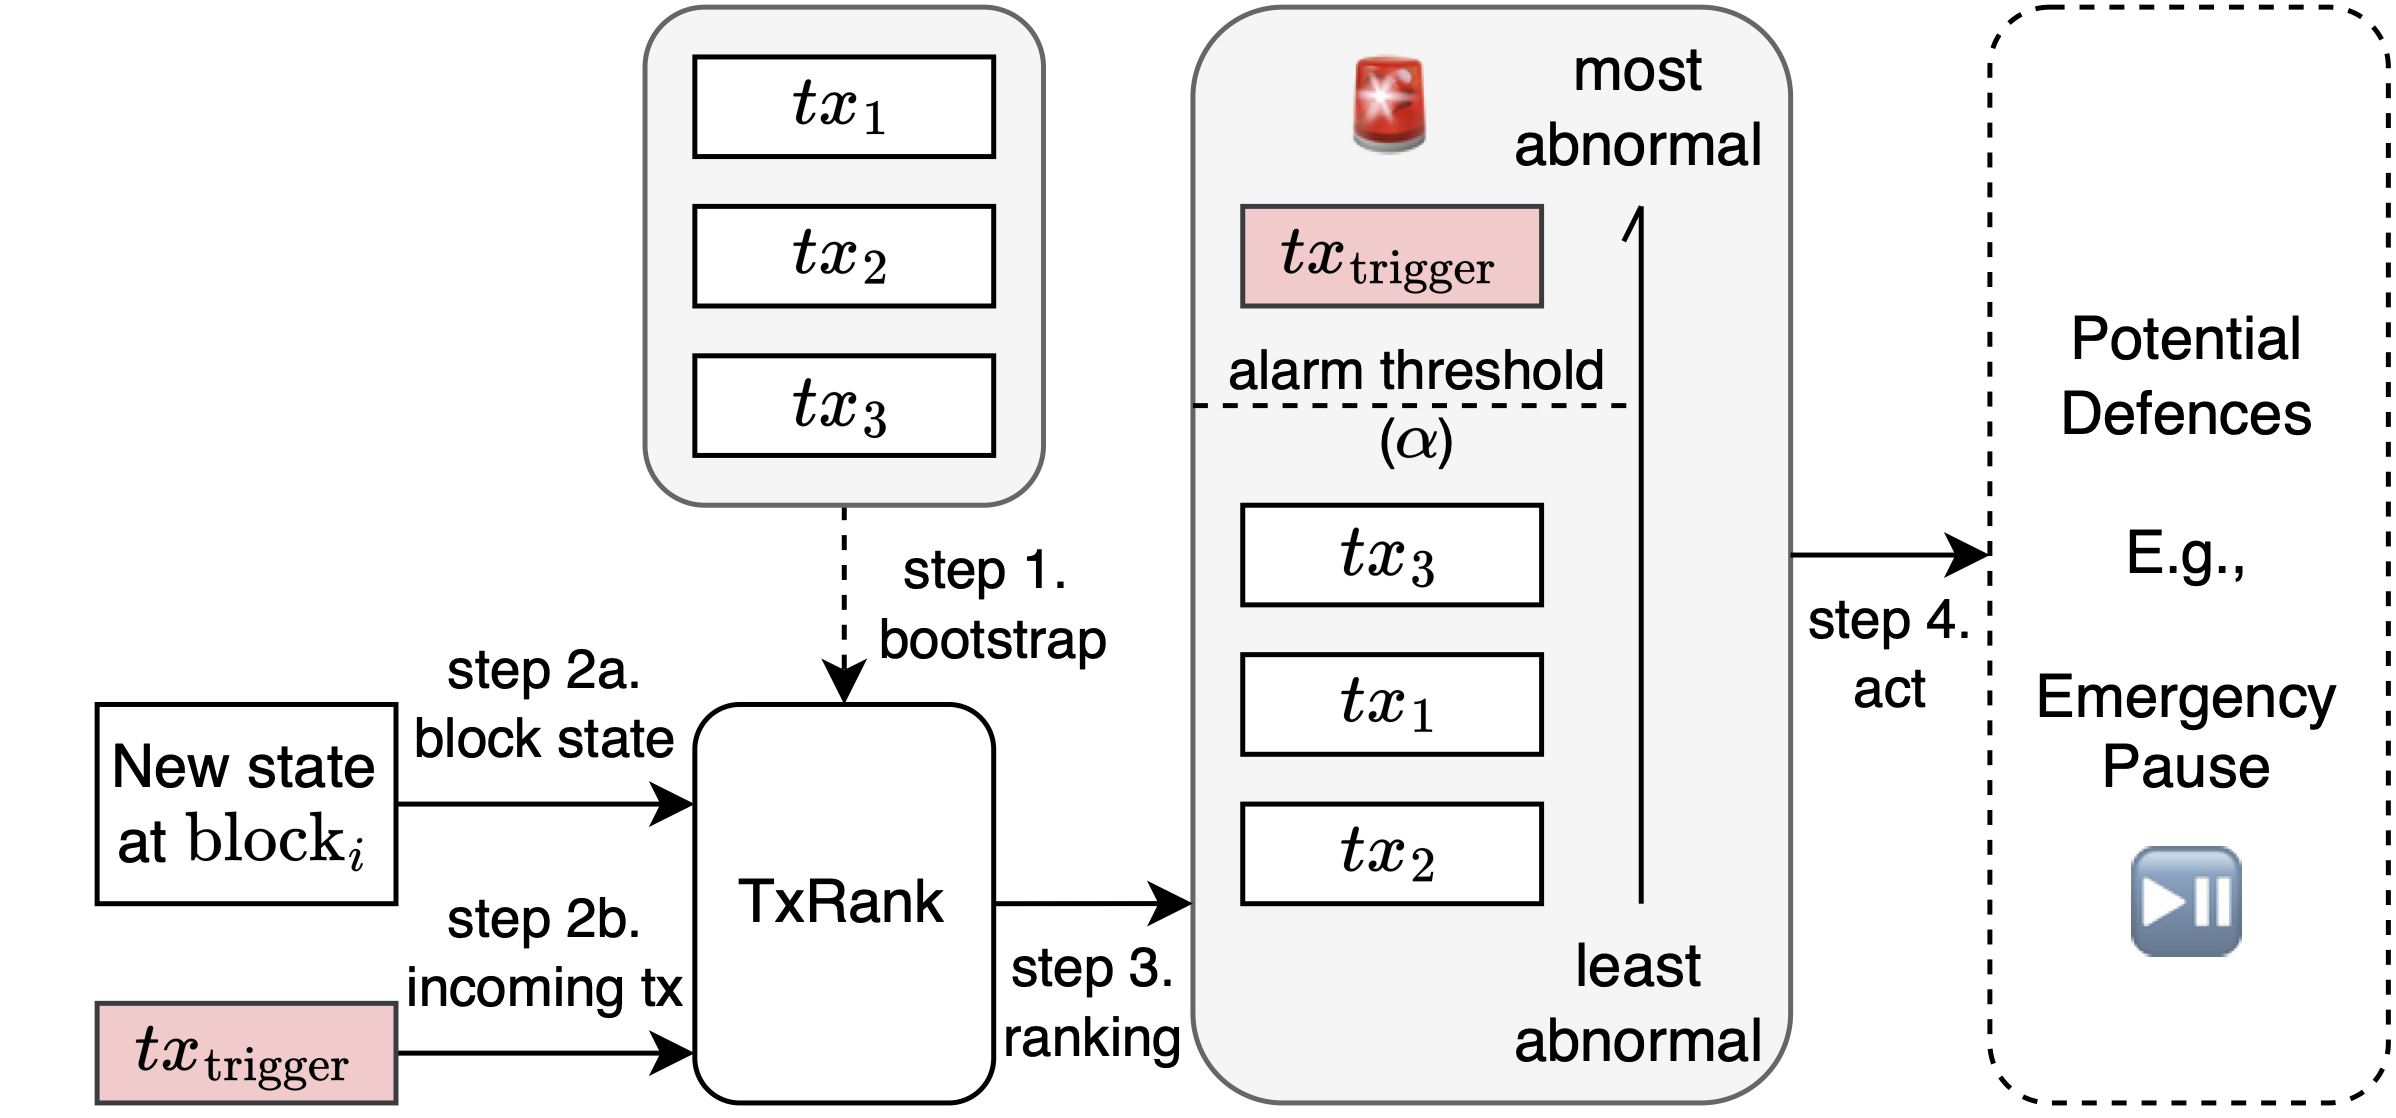
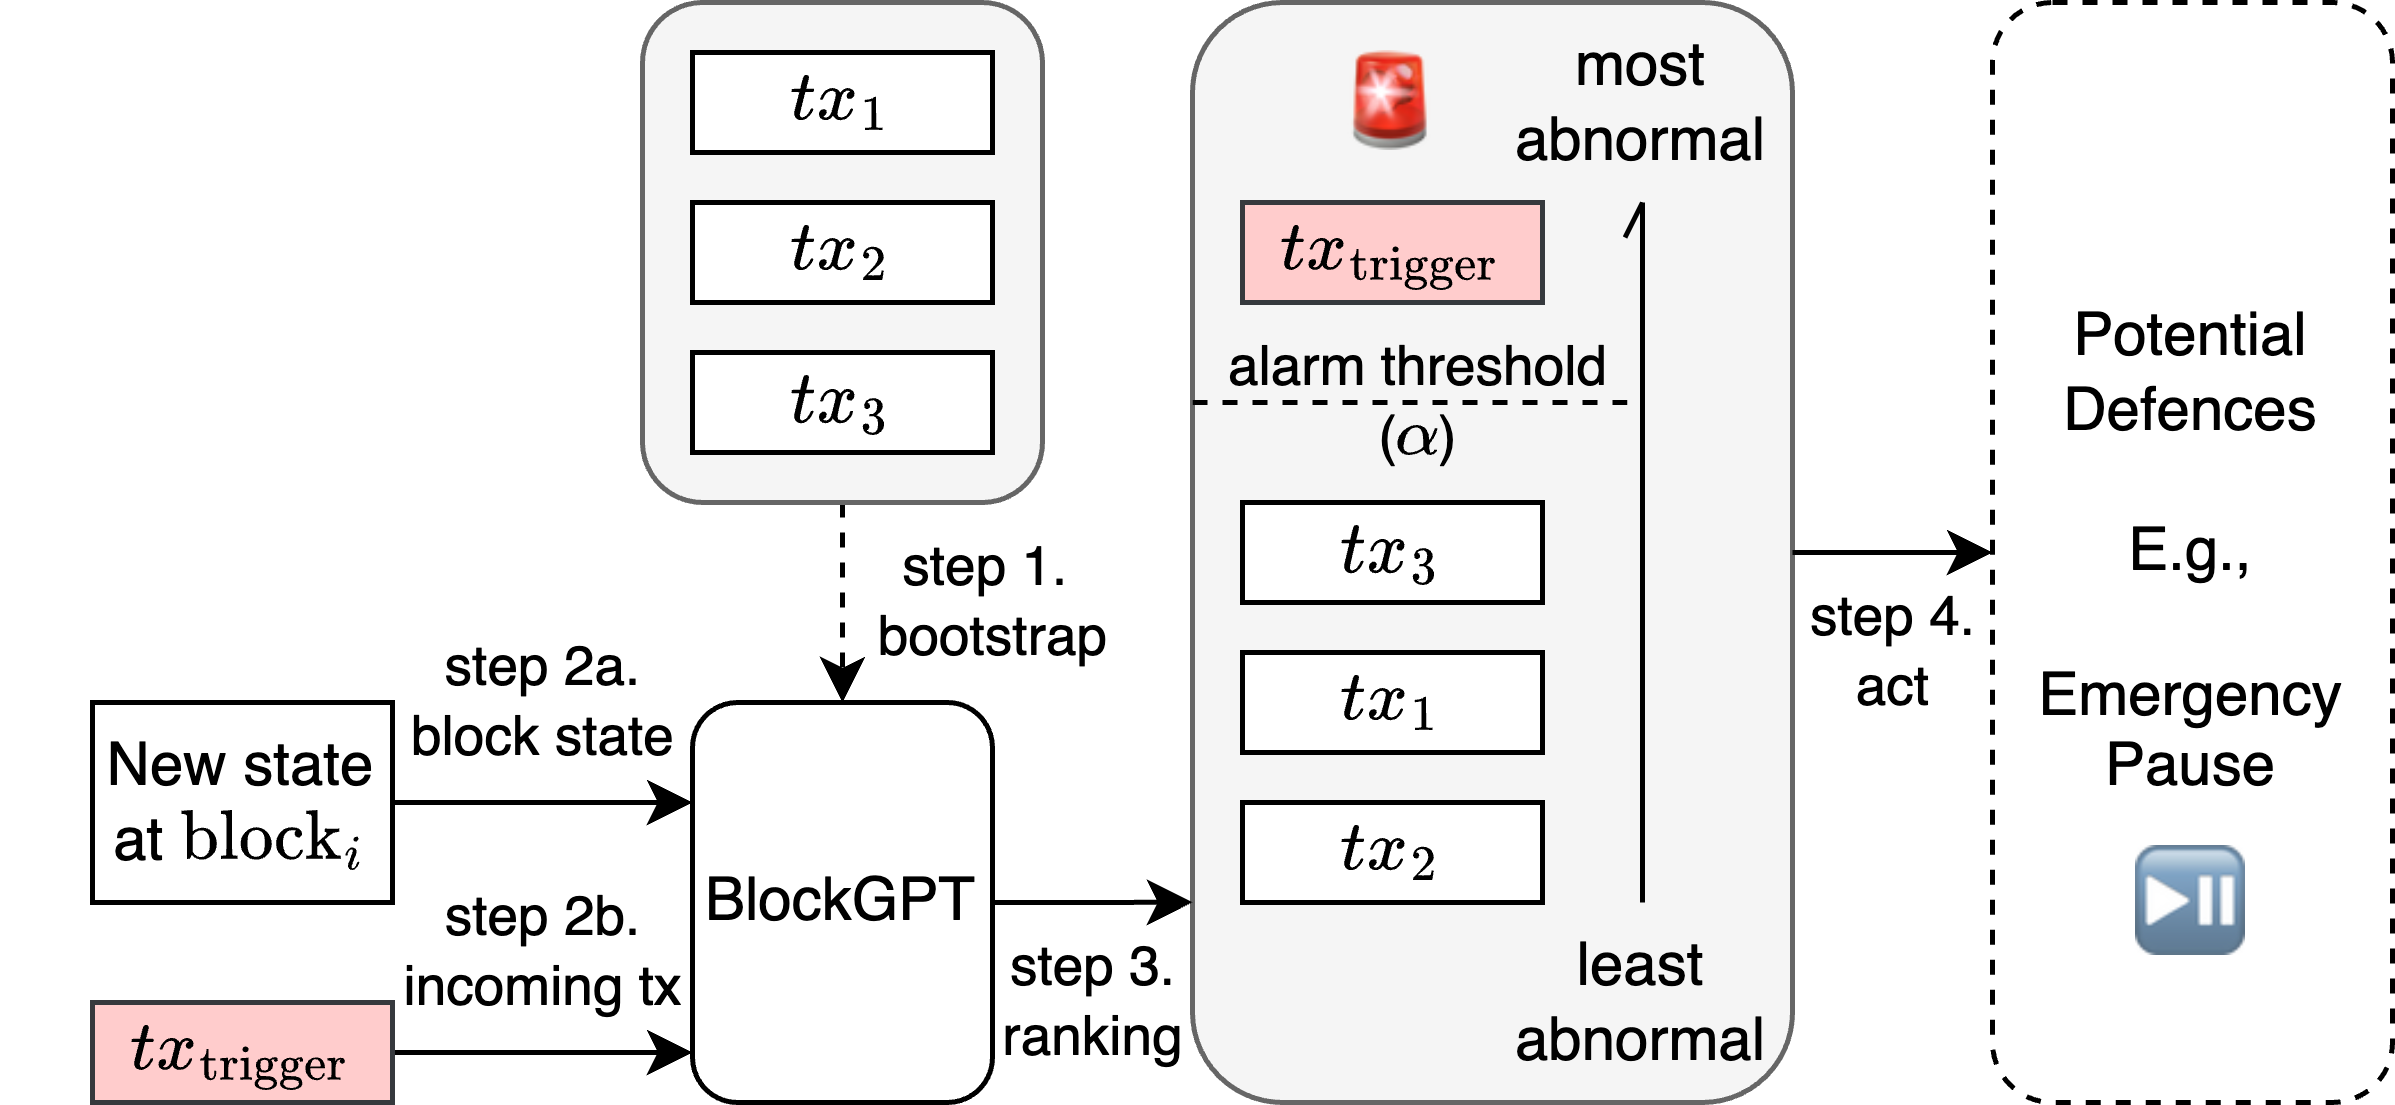
update nav

diff --git a/index.html b/index.html
@@ -41,12 +41,18 @@
             </ul>
           </li>
           <li class="nav-item dropdown">
-            <a class="nav-link dropdown-toggle" href="#" role="button" data-bs-toggle="dropdown" aria-expanded="false">
+            <a class="nav-link dropdown-toggle" href="#" role="button" data-bs-toggle="dropdown"
+               aria-expanded="false">
               DeFi Research
             </a>
             <ul class="dropdown-menu">
-              <li><a class="dropdown-item" href="https://rdi.berkeley.edu/defisecurity">DeFiSecurity</a></li>
-              <li><a class="dropdown-item" href="https://rdi.berkeley.edu/blockchain-llm">Blockchain LLM</a></li>
+              <li><a class="dropdown-item" href="https://rdi.berkeley.edu/defi-attacks">DeFi Attacks</a></li>
+              <li><a class="dropdown-item" href="https://rdi.berkeley.edu/blockchain-llm">Blockchain LLM</a>
+              </li>
+              <li>
+                <hr class="dropdown-divider">
+              </li>
+              <li><a class="dropdown-item" href="https://rdi.berkeley.edu/defi">View All</a></li>
             </ul>
           </li>
         </ul>
@@ -58,9 +64,9 @@
       <div class="container">
         <div class="row align-items-center">
           <div class="col-lg-12">
-            <h1 class="mt-3">Blockchain Large Language Models - TXRANK</h1>
+            <h1 class="mt-3">Blockchain Large Language Models - BlockGPT</h1>
             <p class="text-secondary">2023 &nbsp;|&nbsp; Yu Gai* &middot; Liyi Zhou* &middot; Kaihua Qin &middot; Dawn Song &middot; Arthur Gervais &nbsp;|&nbsp; https://arxiv.org/pdf/2304.12749.pdf</p>
-            <p class="text-justify">This paper presents a dynamic, real-time approach to detecting anomalous blockchain transactions. The proposed tool, TXRANK, generates tracing representations of blockchain activity and trains from scratch a large language model to act as a real-time Intrusion Detection System. Unlike traditional methods, TXRANK is designed to offer an unrestricted search space and does not rely on predefined rules or patterns, enabling it to detect a broader range of anomalies. We demonstrate the effectiveness of TXRANK through its use as an anomaly detection tool for Ethereum transactions. In our experiments, it effectively identifies abnormal transactions among a dataset of 68M transactions and has a batched throughput of 2284 transactions per second on average. Our results show that, TXRANK identifies abnormal transactions by ranking 49 out of 124 attacks among the top-3 most abnormal transactions interacting with their victim contracts. This work makes contributions to the field of blockchain transaction analysis by introducing a custom data encoding compatible with the transformer architecture, a domain-specific tokenization technique, and a tree encoding method specifically crafted for the Ethereum Virtual Machine (EVM) trace representation.</p>
+            <p class="text-justify">This paper presents a dynamic, real-time approach to detecting anomalous blockchain transactions. The proposed tool, BlockGPT, generates tracing representations of blockchain activity and trains from scratch a large language model to act as a real-time Intrusion Detection System. Unlike traditional methods, BlockGPT is designed to offer an unrestricted search space and does not rely on predefined rules or patterns, enabling it to detect a broader range of anomalies. We demonstrate the effectiveness of BlockGPT through its use as an anomaly detection tool for Ethereum transactions. In our experiments, it effectively identifies abnormal transactions among a dataset of 68M transactions and has a batched throughput of 2284 transactions per second on average. Our results show that, BlockGPT identifies abnormal transactions by ranking 49 out of 124 attacks among the top-3 most abnormal transactions interacting with their victim contracts. This work makes contributions to the field of blockchain transaction analysis by introducing a custom data encoding compatible with the transformer architecture, a domain-specific tokenization technique, and a tree encoding method specifically crafted for the Ethereum Virtual Machine (EVM) trace representation.</p>
             <p class="mb-0"><a class="btn btn-primary btn-lg" href="https://arxiv.org/pdf/2304.12749" target="_blank"><i class="fa fa-file-lines"></i>&nbsp; Read Paper</a></p>
           </div>
         </div>
@@ -74,7 +80,7 @@
           <img src="img/highleveloverview.png" class="w-100 rounded">
         </div>
         <div class="col-lg-6">
-          <p>High-level overview of the TXRANK defense mechanism, which consists of the following four major steps. <span class="font-weight-bold">&#10122;</span> TXRANK is bootstrapped by feeding in a dataset of historical transactions to train the model using unsupervised learning. <span class="font-weight-bold">&#10123;</span> Depending on the system and threat model, TXRANK detects new block states, including already confirmed transactions, and pending transactions. <span class="font-weight-bold">&#10124;</span> TXRANK ranks transactions based on how abnormal their execution traces are. <span class="font-weight-bold">&#10125;</span> If an abnormal transaction is detected , TXRANK triggers a defense mechanism such as a front-running emergency pause.</p>
+          <p>High-level overview of the BlockGPT defense mechanism, which consists of the following four major steps. <span class="font-weight-bold">&#10122;</span> BlockGPT is bootstrapped by feeding in a dataset of historical transactions to train the model using unsupervised learning. <span class="font-weight-bold">&#10123;</span> Depending on the system and threat model, BlockGPT detects new block states, including already confirmed transactions, and pending transactions. <span class="font-weight-bold">&#10124;</span> BlockGPT ranks transactions based on how abnormal their execution traces are. <span class="font-weight-bold">&#10125;</span> If an abnormal transaction is detected , BlockGPT triggers a defense mechanism such as a front-running emergency pause.</p>
         </div>
       </div>
     </div>
@@ -102,7 +108,7 @@
                 <td colspan="5">Rank based -- the goal is to find all unexpected execution patterns, implicitly capturing vulnerabilities</td>
               </tr>
               <tr>
-                <td>TXRANK (this paper)</td>
+                <td>BlockGPT (this paper)</td>
                 <td>All historical transactions</td>
                 <td>Unrestricted</td>
                 <td>Yes (0.16s)</td>
